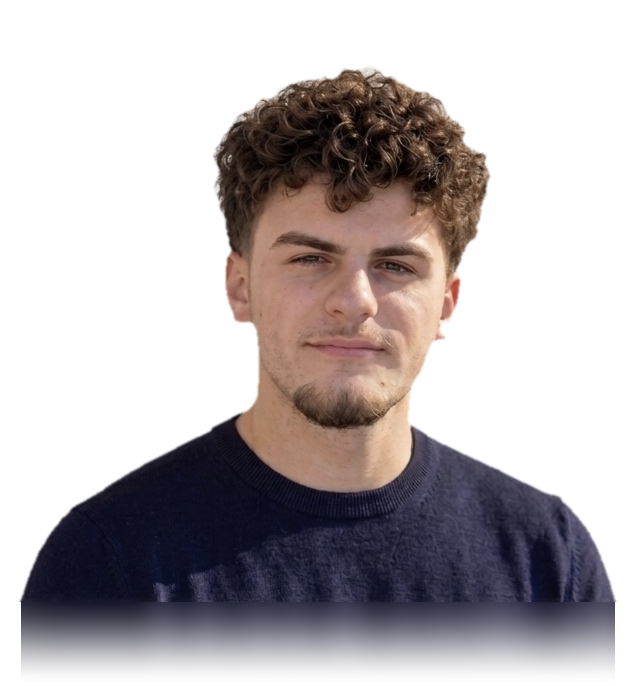
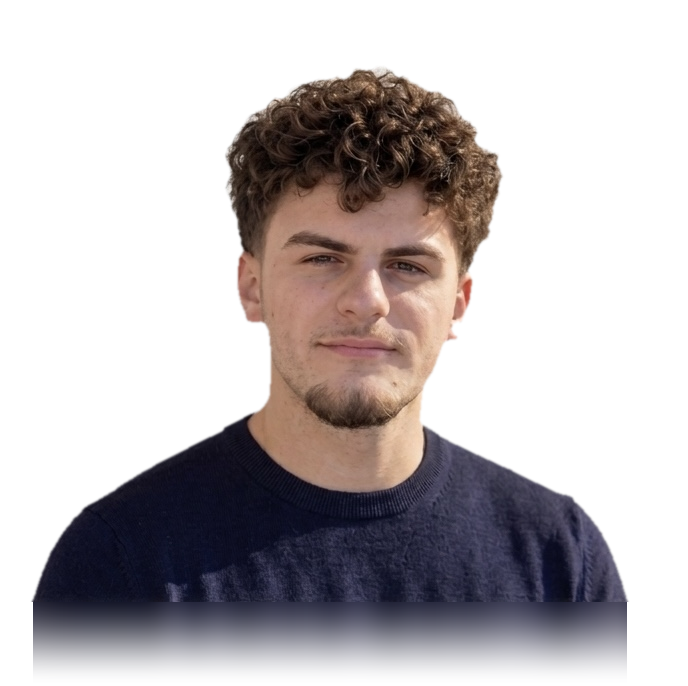
Élargit encore le cadrage pour laisser de la marge autour des épaules

diff --git a/index.html b/index.html
@@ -304,7 +304,7 @@
     .about-photo.reveal { transition-delay: 100ms; }
     .about-photo img {
       display: block; width: 100%; height: auto;
-      aspect-ratio: 640 / 686; object-fit: cover;
+      aspect-ratio: 688 / 686; object-fit: cover;
     }
 
     @media (max-width: 680px) {
@@ -560,7 +560,7 @@
         Après un baccalauréat obtenu avec la mention Bien (15,45/20 de moyenne, spécialités Mathématiques et SES), je rejoins l'année préparatoire du <strong>BBA d'HEC Montréal</strong> en août 2026. J'ai grandi à Saint-Maur-des-Fossés, passé deux semaines en immersion totale en anglais à Brighton, et observé le fonctionnement de deux entreprises très différentes, un grand groupe agroalimentaire et une PME. Je m'intéresse à la logistique et au supply chain, la mécanique qui fait tourner les entreprises à l'échelle internationale, un intérêt qui s'étend naturellement à l'intelligence artificielle et aux économies d'Asie du Sud-Est, notamment.
       </p>
       <div class="about-photo reveal">
-        <img src="portrait.png" alt="Victor Loiseau" width="640" height="686" loading="lazy">
+        <img src="portrait.png" alt="Victor Loiseau" width="688" height="686" loading="lazy">
       </div>
     </div>
   </section>
